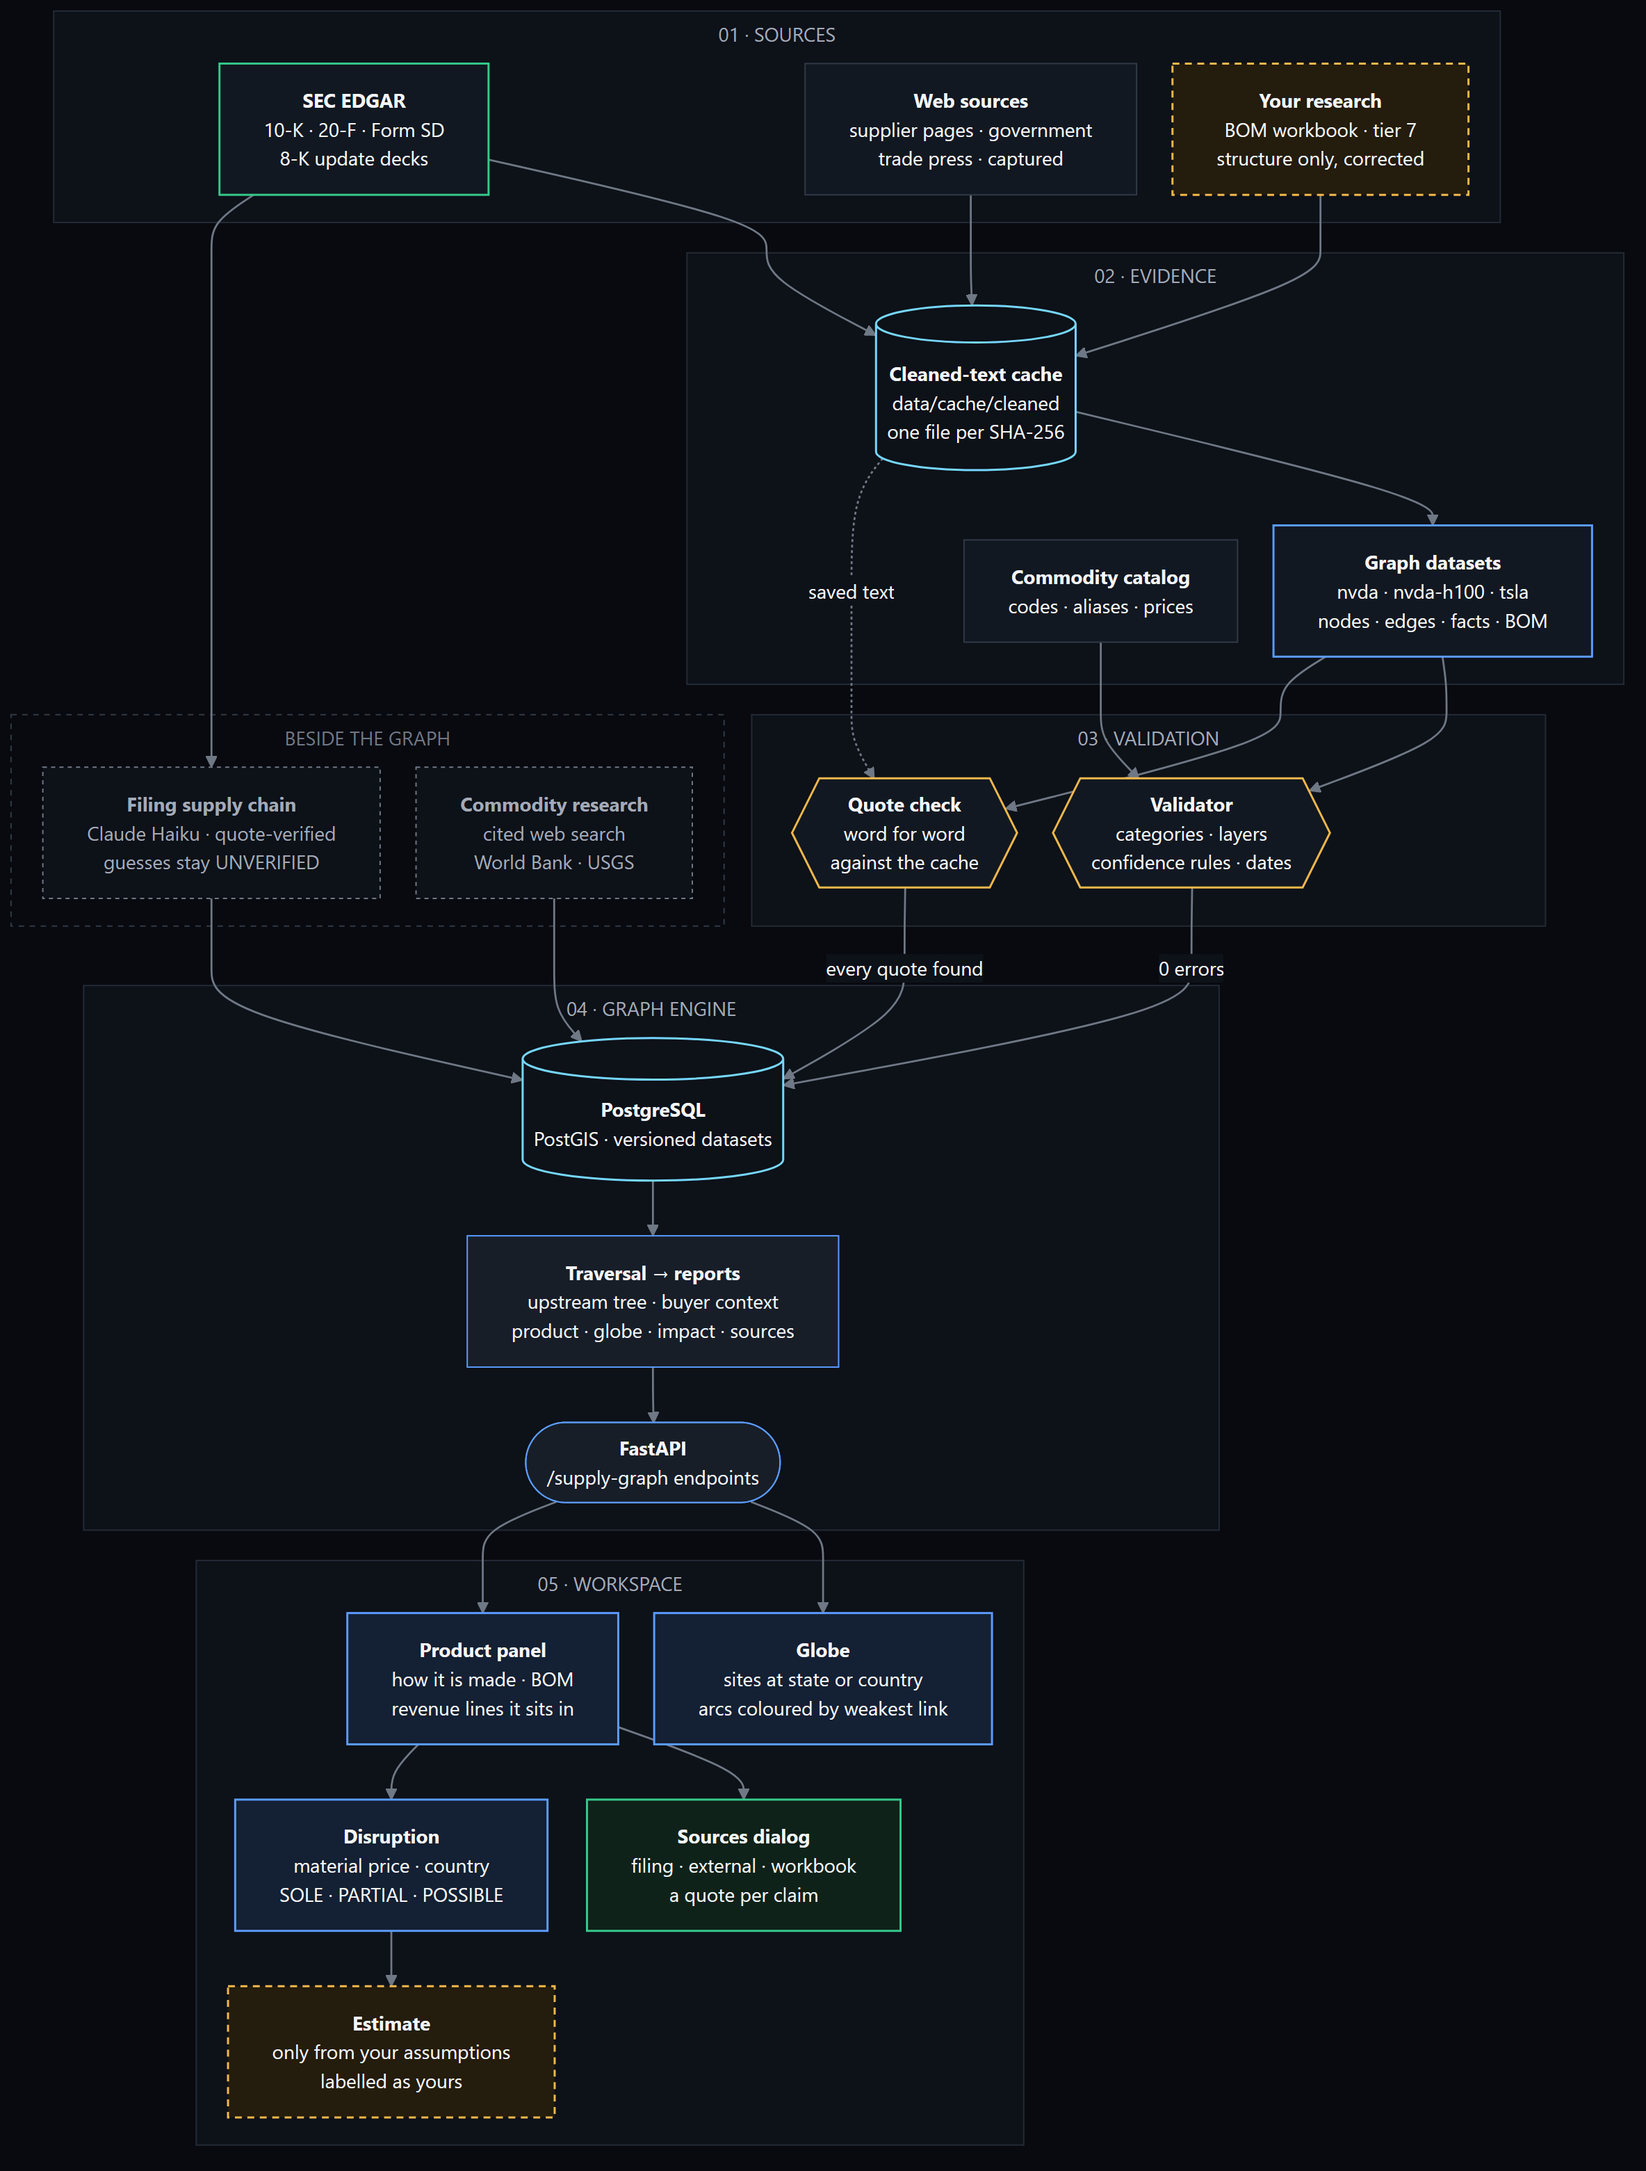
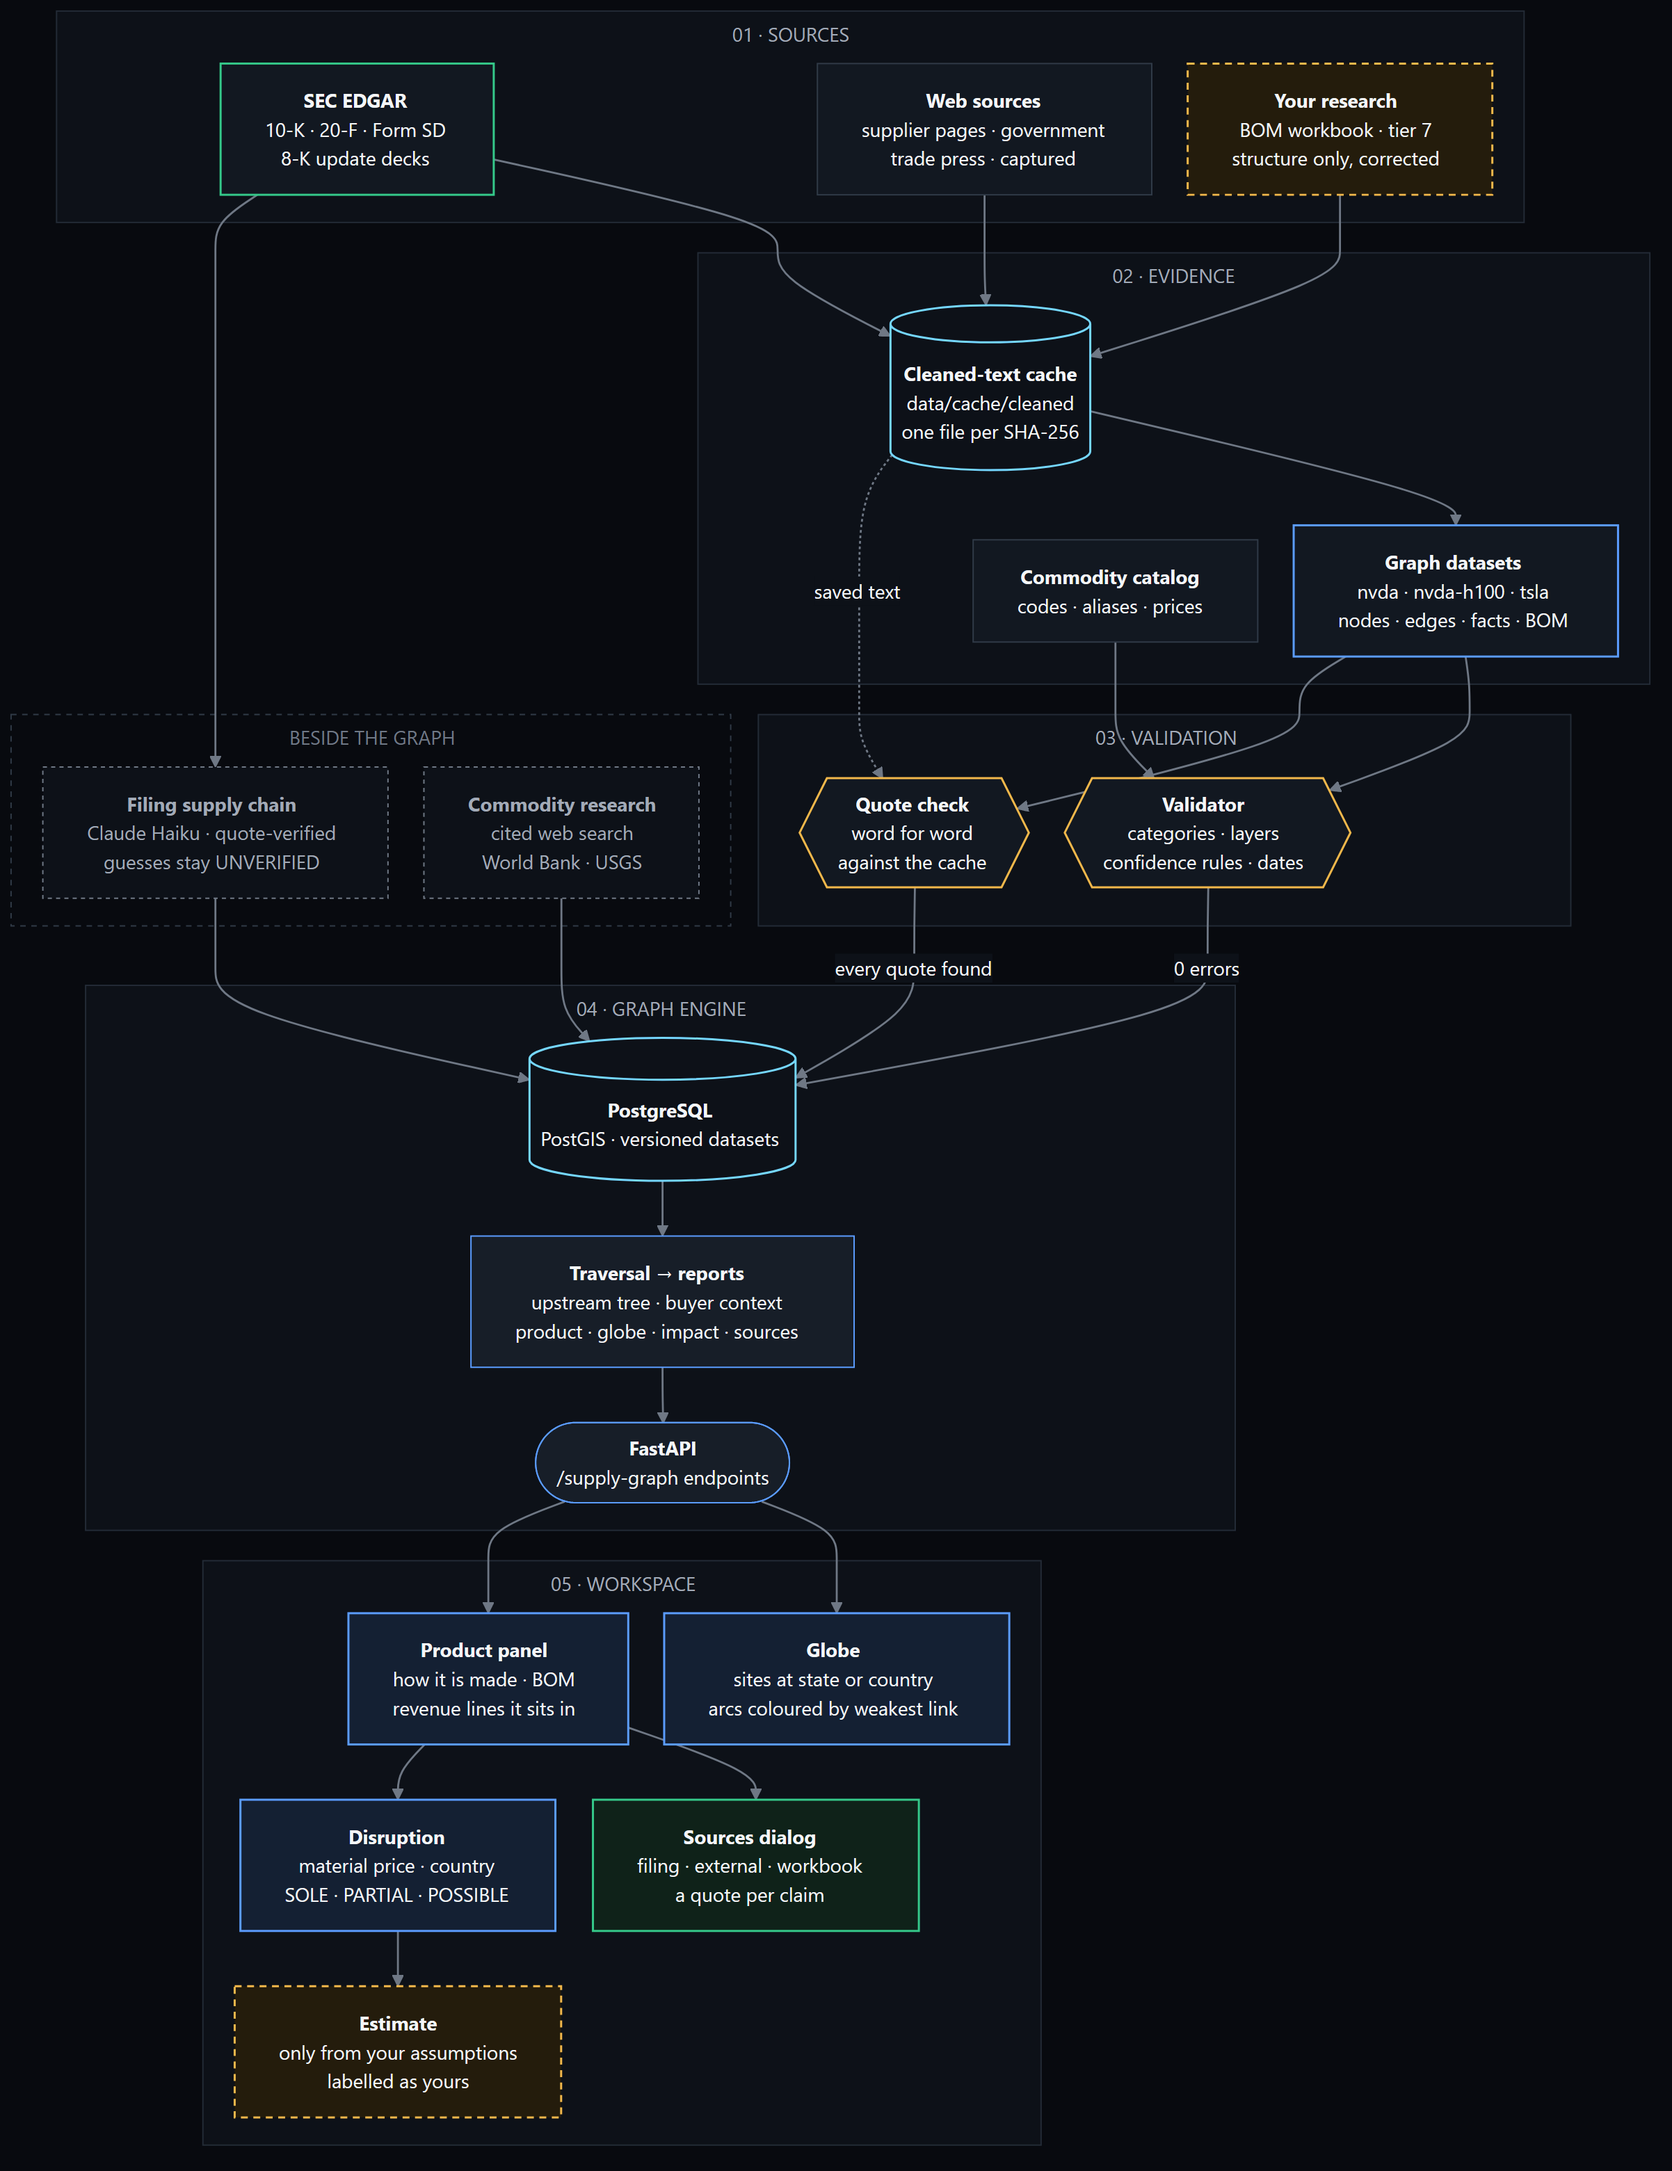
Wrap project header around the video; update TRACE data-flow diagram
The header video floats beside the title and details instead of taking
its own row. The diagram uses the new Mermaid source, with an intro and
a colour legend.

diff --git a/src/assets/projects/trace/architecture.css b/src/assets/projects/trace/architecture.css
@@ -1,0 +1,2 @@
+/* Forces an installed font at render time; the init block font list falls back to serif in mermaid-cli. */
+* { font-family: "Segoe UI", Arial, sans-serif !important; }

diff --git a/src/content/projects/trace.md b/src/content/projects/trace.md
@@ -55,8 +55,23 @@ Two pipelines run alongside the graph. **Filing extraction** uses Claude Haiku 4
 
 ## System / architecture
 
-[![Architecture of TRACE in five stages: sources such as SEC EDGAR and web pages feed a cleaned-text cache and graph datasets; a validator and word-for-word quote check gate loading into PostgreSQL; a traversal engine and FastAPI serve the globe, product panel, sources dialog and disruption views. Filing extraction and commodity research run beside the graph.](/projects/trace/architecture.png)](/projects/trace/architecture.png)
-*From filing to globe. Nothing reaches the database until the validator finds zero errors and every quote is found in its saved source. Select the diagram to open it full size.*
+### How data flows through TRACE
+
+From a filing or a web page to a line on the globe. Every stage keeps the evidence attached: a quote is checked word for word against the saved source before a graph loads, and each relationship carries its own confidence all the way to the screen.
+
+[![How data flows through TRACE in five stages: sources such as SEC EDGAR and web pages feed a cleaned-text cache and graph datasets; a validator and word-for-word quote check gate loading into PostgreSQL; a traversal engine and FastAPI serve the globe, product panel, sources dialog and disruption views. Filing extraction and commodity research run beside the graph.](/projects/trace/architecture.png)](/projects/trace/architecture.png)
+*Select the diagram to open it full size.*
+
+| Colour | Means the same as in the app |
+| --- | --- |
+| <span class="swatch" style="--swatch: #35c98a"></span>Green border | Primary, confirmed evidence: filings and the sources dialog |
+| <span class="swatch" style="--swatch: #5b9cff"></span>Blue | TRACE's own research and the workspace views |
+| <span class="swatch" style="--swatch: #75d7ff"></span>Cyan | Stored data: the source cache and the database |
+| <span class="swatch" style="--swatch: #f2b84b"></span>Amber | A gate that can refuse a dataset, or anything built on your own input |
+| <span class="swatch swatch--dashed" style="--swatch: #f2b84b"></span>Dashed amber | Your assumptions: the workbook and the estimate panel |
+| <span class="swatch swatch--dashed" style="--swatch: #6f7885"></span>Dashed grey | The filing and commodity pipelines that run beside the graph |
+
+### Stack
 
 - **Web:** Astro, TypeScript and React, with a Three.js globe behind an imperative API.
 - **API:** FastAPI on Python 3.12, SQLAlchemy and Alembic, covering the graph, traversal, impact analysis and reports.
